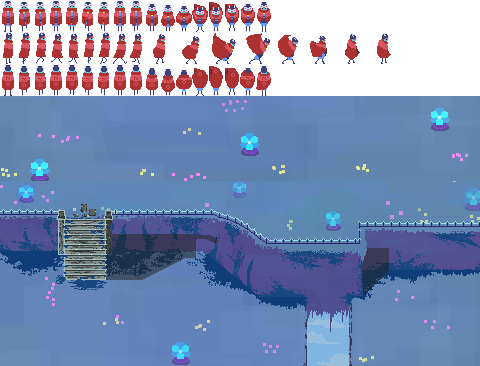
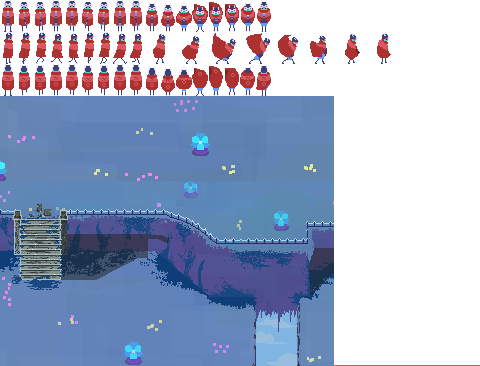
resized window

diff --git a/src/test/test.cpp b/src/test/test.cpp
@@ -84,14 +84,14 @@ internal void init_test_basic(GameScene* scn) {
 	// Three shapes, one dynamic, one static, one half-static, connected with springs
 
 	PhysBody *b0, *b1, *b2;
-	b0 = scene->add(new PhysBody(Vec2(400, 360), Shape(10, 60)));
+	b0 = scene->add(new PhysBody(Vec2(400, 360), Shape(10, 40)));
 	b0->m_inv = 0;
 	b0->m = 0;
 	b0->material.set_jelly();
-	b1 = scene->add(new PhysBody(Vec2(100, 300), Shape(40)));
+	b1 = scene->add(new PhysBody(Vec2(100, 300), Shape(30)));
 	b1->calc_mass(0);
 	b1->material.set_jelly();
-	b2 = scene->add(new PhysBody(Vec2(200, 500), Shape(6, 30)));
+	b2 = scene->add(new PhysBody(Vec2(200, 500), Shape(6, 20)));
 	b2->material.set_jelly();
 
 	scene->spring.push_back(Spring(b0, b2, 50, 2, 4));
@@ -99,13 +99,13 @@ internal void init_test_basic(GameScene* scn) {
 
 	// Curtain: grid of small bodies connected with springs
 
-	const unsigned bw = 18;
-	const unsigned bh = 12;
+	const unsigned bw = 15;
+	const unsigned bh = 10;
 	std::vector<std::vector<PhysBody*>> curtain(bh, std::vector<PhysBody*>(bw, NULL));
 
 	for (unsigned y = 0; y < bh; y++) {
 		for (unsigned x = 0; x < bw; x++) {
-			curtain[y][x] = new PhysBody(Vec2(600 + (8 + x) * x, 200 + 16 * y - x * 2), Shape(4));
+			curtain[y][x] = new PhysBody(Vec2(600 + (8 + x) * x, 160 + 16 * y - x * 2), Shape(4));
 			scene->add(curtain[y][x]);
 
 			if (y == 0) {
@@ -116,9 +116,9 @@ internal void init_test_basic(GameScene* scn) {
 	for (unsigned y = 0; y < bh; y++) {
 		for (unsigned x = 0; x < bw; x++) {
 			if (y + 1 < bh)
-				scene->spring.push_back(Spring(curtain[y][x], curtain[y + 1][x], 0, 6, 3));
+				scene->spring.push_back(Spring(curtain[y][x], curtain[y + 1][x], 0, 6, 4));
 			if (x + 1 < bw)
-				scene->spring.push_back(Spring(curtain[y][x], curtain[y][x + 1], 0, 6, 3));
+				scene->spring.push_back(Spring(curtain[y][x], curtain[y][x + 1], 0, 6, 4));
 		}
 	}
 
@@ -258,7 +258,7 @@ internal void init_bridge_test(GameScene* scn) {
 
 	std::vector<PhysBody*> bridge;
 
-	unsigned bridge_cnt = 20 + 2;
+	unsigned bridge_cnt = 14 + 2;
 	for (unsigned x = 0; x < bridge_cnt; x++) {
 		double gap = (VIEW_W - 200) / bridge_cnt;
 		double w = gap * 0.9;
@@ -339,27 +339,27 @@ internal void init_drifter_scene(GameScene* scn) {
 
 	PhysBody* b;
 
-	b = scene->add(new PhysBody({31, 137}, Shape(Vec2{62, 38})));
+	b = scene->add(new PhysBody({10, 136}, Shape(Vec2{20, 37})));
 	b->calc_mass(0);
 	b->layer = LAYER_SOLID;
 	b->material.e = 0;
 
-	b = scene->add(new PhysBody({162, 137}, Shape(Vec2{110, 38})));
+	b = scene->add(new PhysBody({113, 136}, Shape(Vec2{105, 35})));
 	b->calc_mass(0);
 	b->layer = LAYER_SOLID;
 	b->material.e = 0;
 
-	b = scene->add(new PhysBody({300, 175}, Shape({{63, -28}, {63, 24}, {-44, 24}, {-100, -28}})));
+	b = scene->add(new PhysBody({183, 153}, Shape({{36, -8}, {26, 46}, {-28, 0}, {-18, -34}})));
 	b->calc_mass(0);
 	b->layer = LAYER_SOLID;
 	b->material.e = 0;
 
-	b = scene->add(new PhysBody({420, 151}, Shape(Vec2{120, 44})));
+	b = scene->add(new PhysBody({259, 170}, Shape(Vec2{101, 56})));
 	b->calc_mass(0);
 	b->layer = LAYER_SOLID;
 	b->material.e = 0;
 
-	b = scene->add(new PhysBody({230, 137.75}, Shape({{-14, -20}, {32, 12}, {-14, 12}})));
+	b = scene->add(new PhysBody({323, 150}, Shape(Vec2{34, 42})));
 	b->calc_mass(0);
 	b->layer = LAYER_SOLID;
 	b->material.e = 0;
@@ -378,7 +378,7 @@ internal void init_drifter_scene(GameScene* scn) {
 	player.csprite.depth = 0;
 	scn->entity.push_back(player); // pass by copy
 
-	b = scene->add(new PhysBody({328, 235}, Shape(Vec2{29, 70})));
+	b = scene->add(new PhysBody({275, 235}, Shape(Vec2{29, 70})));
 	b->calc_mass(0);
 	b->aggregate_state = PHYSBODY_PASSIVE;
 	b->layer = LAYER_PIT;

diff --git a/src/game/resources.cpp b/src/game/resources.cpp
@@ -15,5 +15,5 @@ void sprites_init(Image* img_atlas) {
 	spr[SPR_DRIFTER_UP_WALK] 		= Sprite(img_atlas, 1 * 16, 64, 16, 32, 8);
 	spr[SPR_DRIFTER_UP_DRIFT] 		= Sprite(img_atlas, 9 * 16, 64, 16, 32, 8);
 
-	spr[SPR_BG_FLOOR]				= Sprite(img_atlas, 0, 96, 480, 270, 	1);
+	spr[SPR_BG_FLOOR]				= Sprite(img_atlas, 0, 96, 334, 270, 	1);
 }

diff --git a/src/main.cpp b/src/main.cpp
@@ -1,6 +1,6 @@
 #include "test/test.h"
 
-static const unsigned WIN_W = 1440;
+static const unsigned WIN_W = 1002;
 static const unsigned WIN_H = 810;
 static const unsigned WIN_X = ((1920 - WIN_W) / 2);
 static const unsigned WIN_Y = ((1080 - WIN_H) / 2);

diff --git a/src/game/gamescene.cpp b/src/game/gamescene.cpp
@@ -1,4 +1,5 @@
 #include "gamescene.h"
+#include "stdio.h"
 
 GameScene::GameScene(PhysScene* physscene, GUI* gui) {
     this->physscene = physscene;
